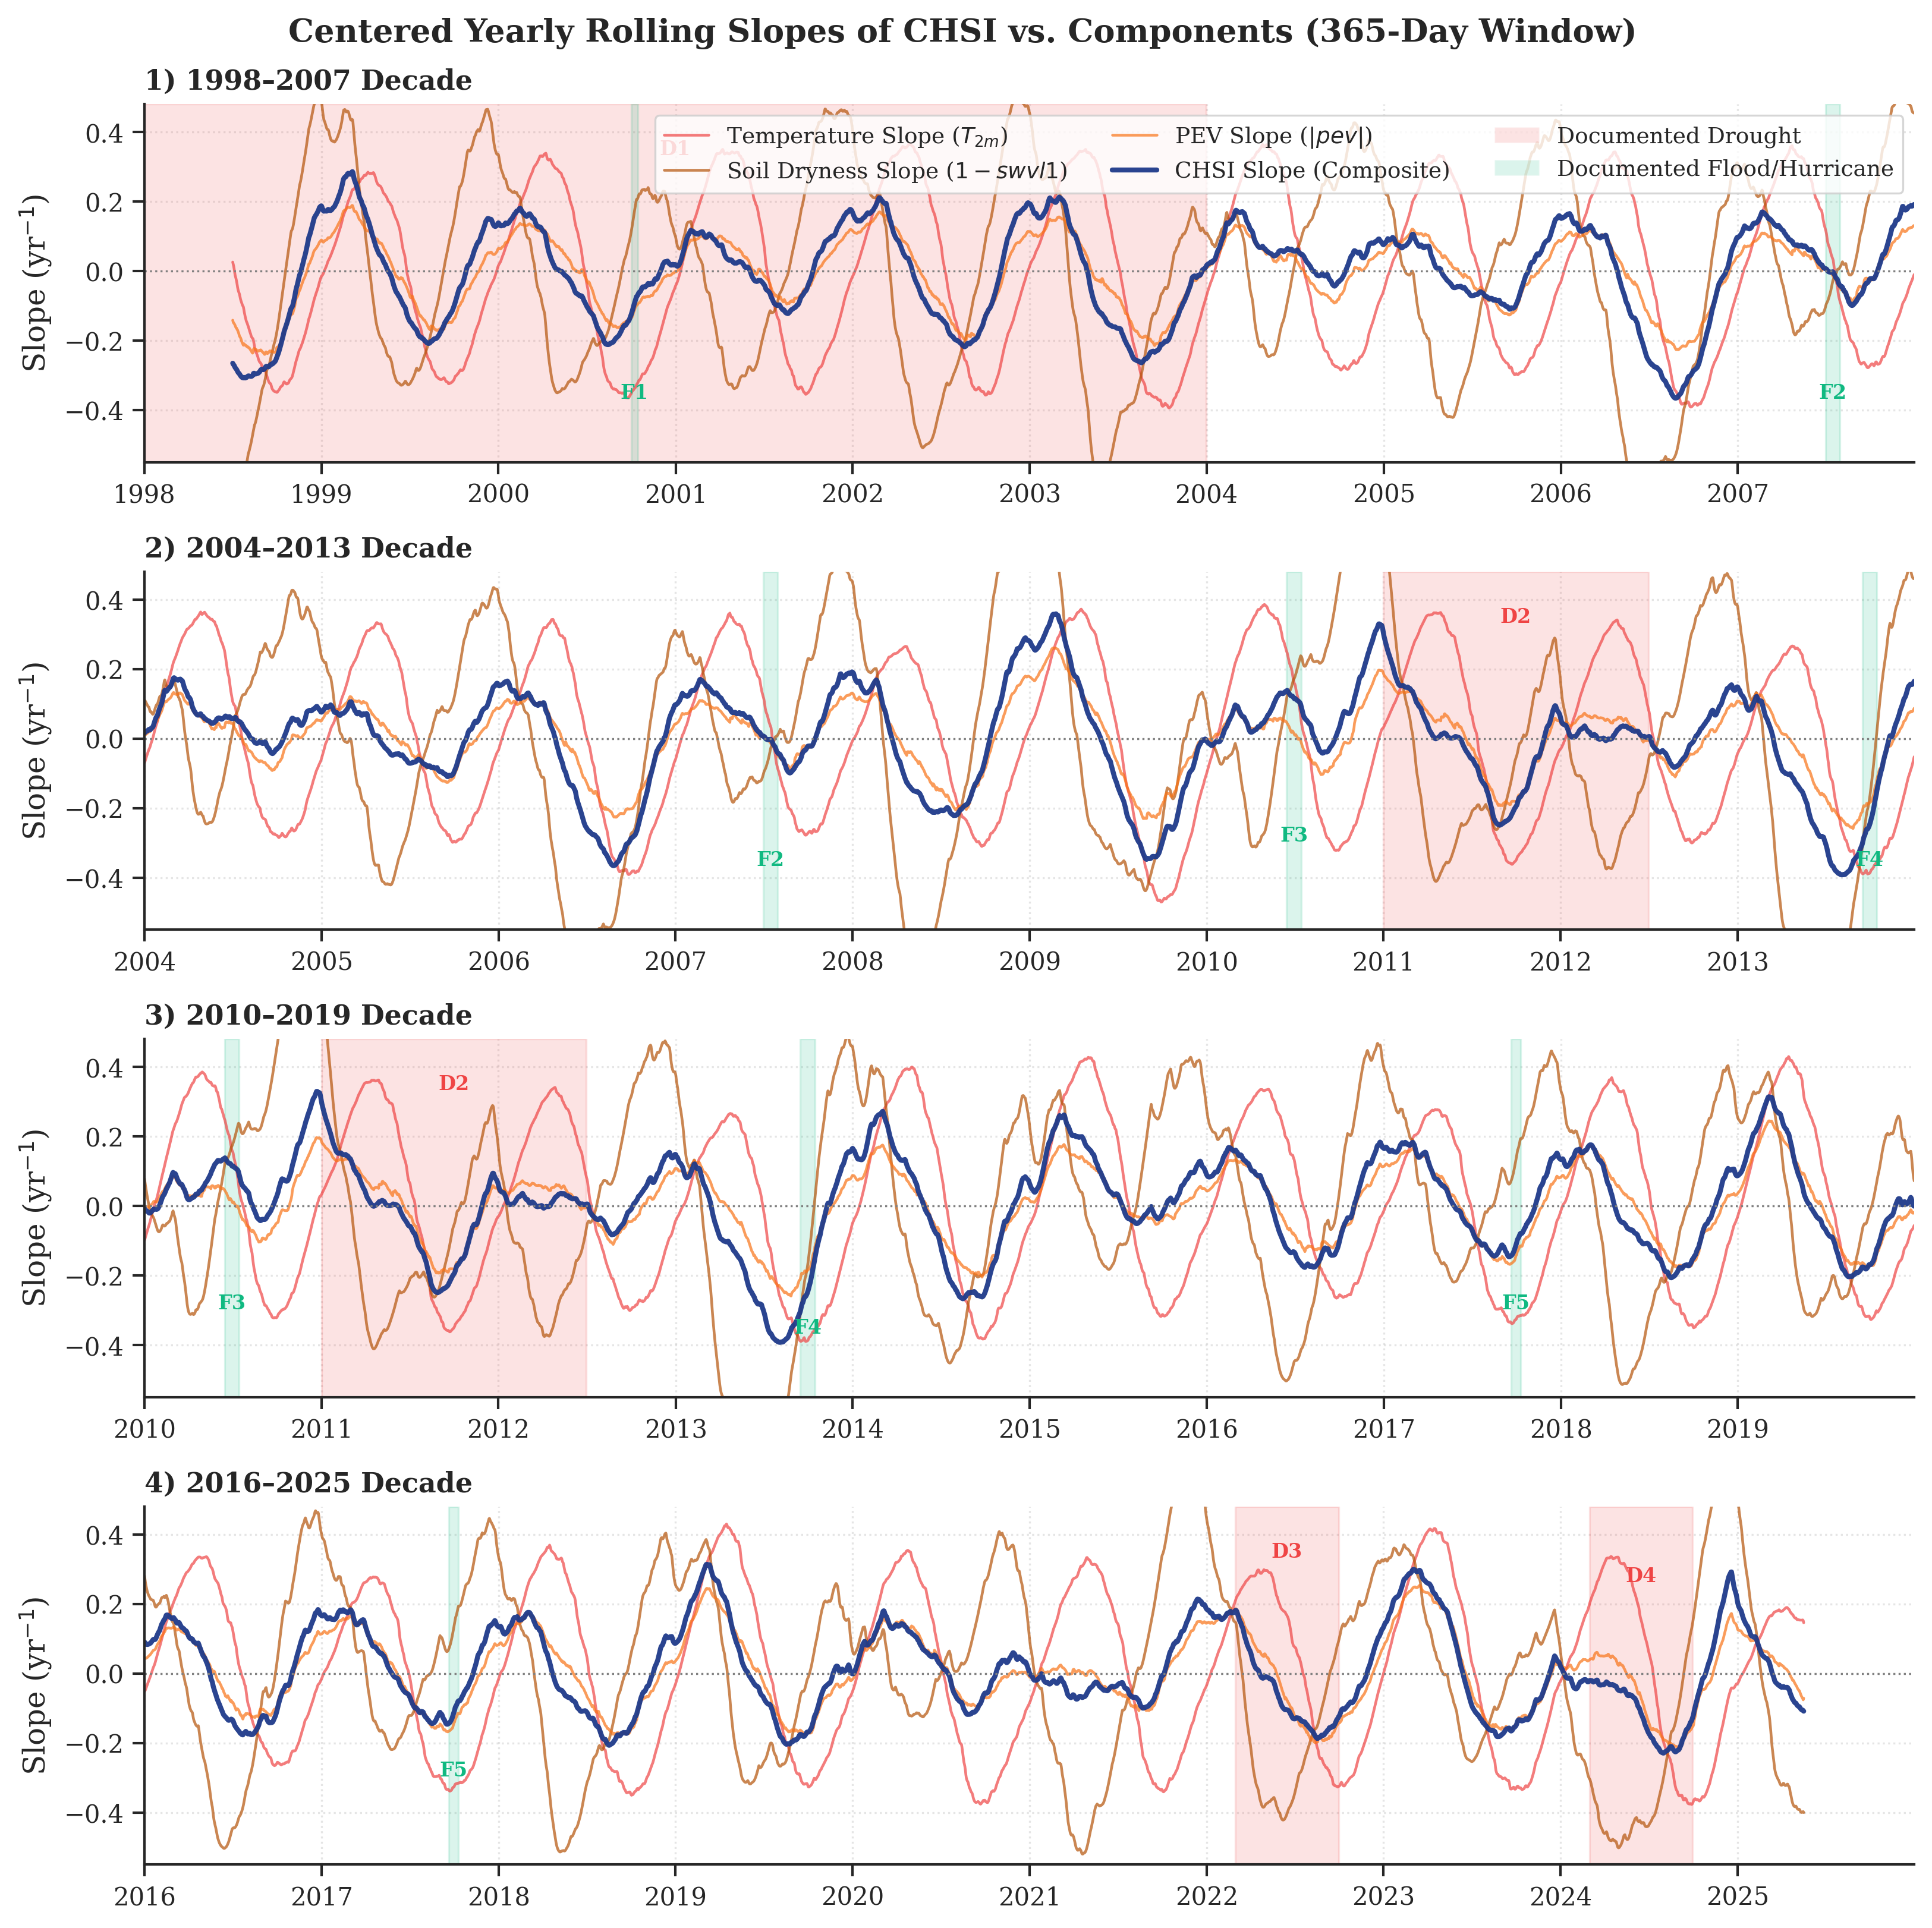
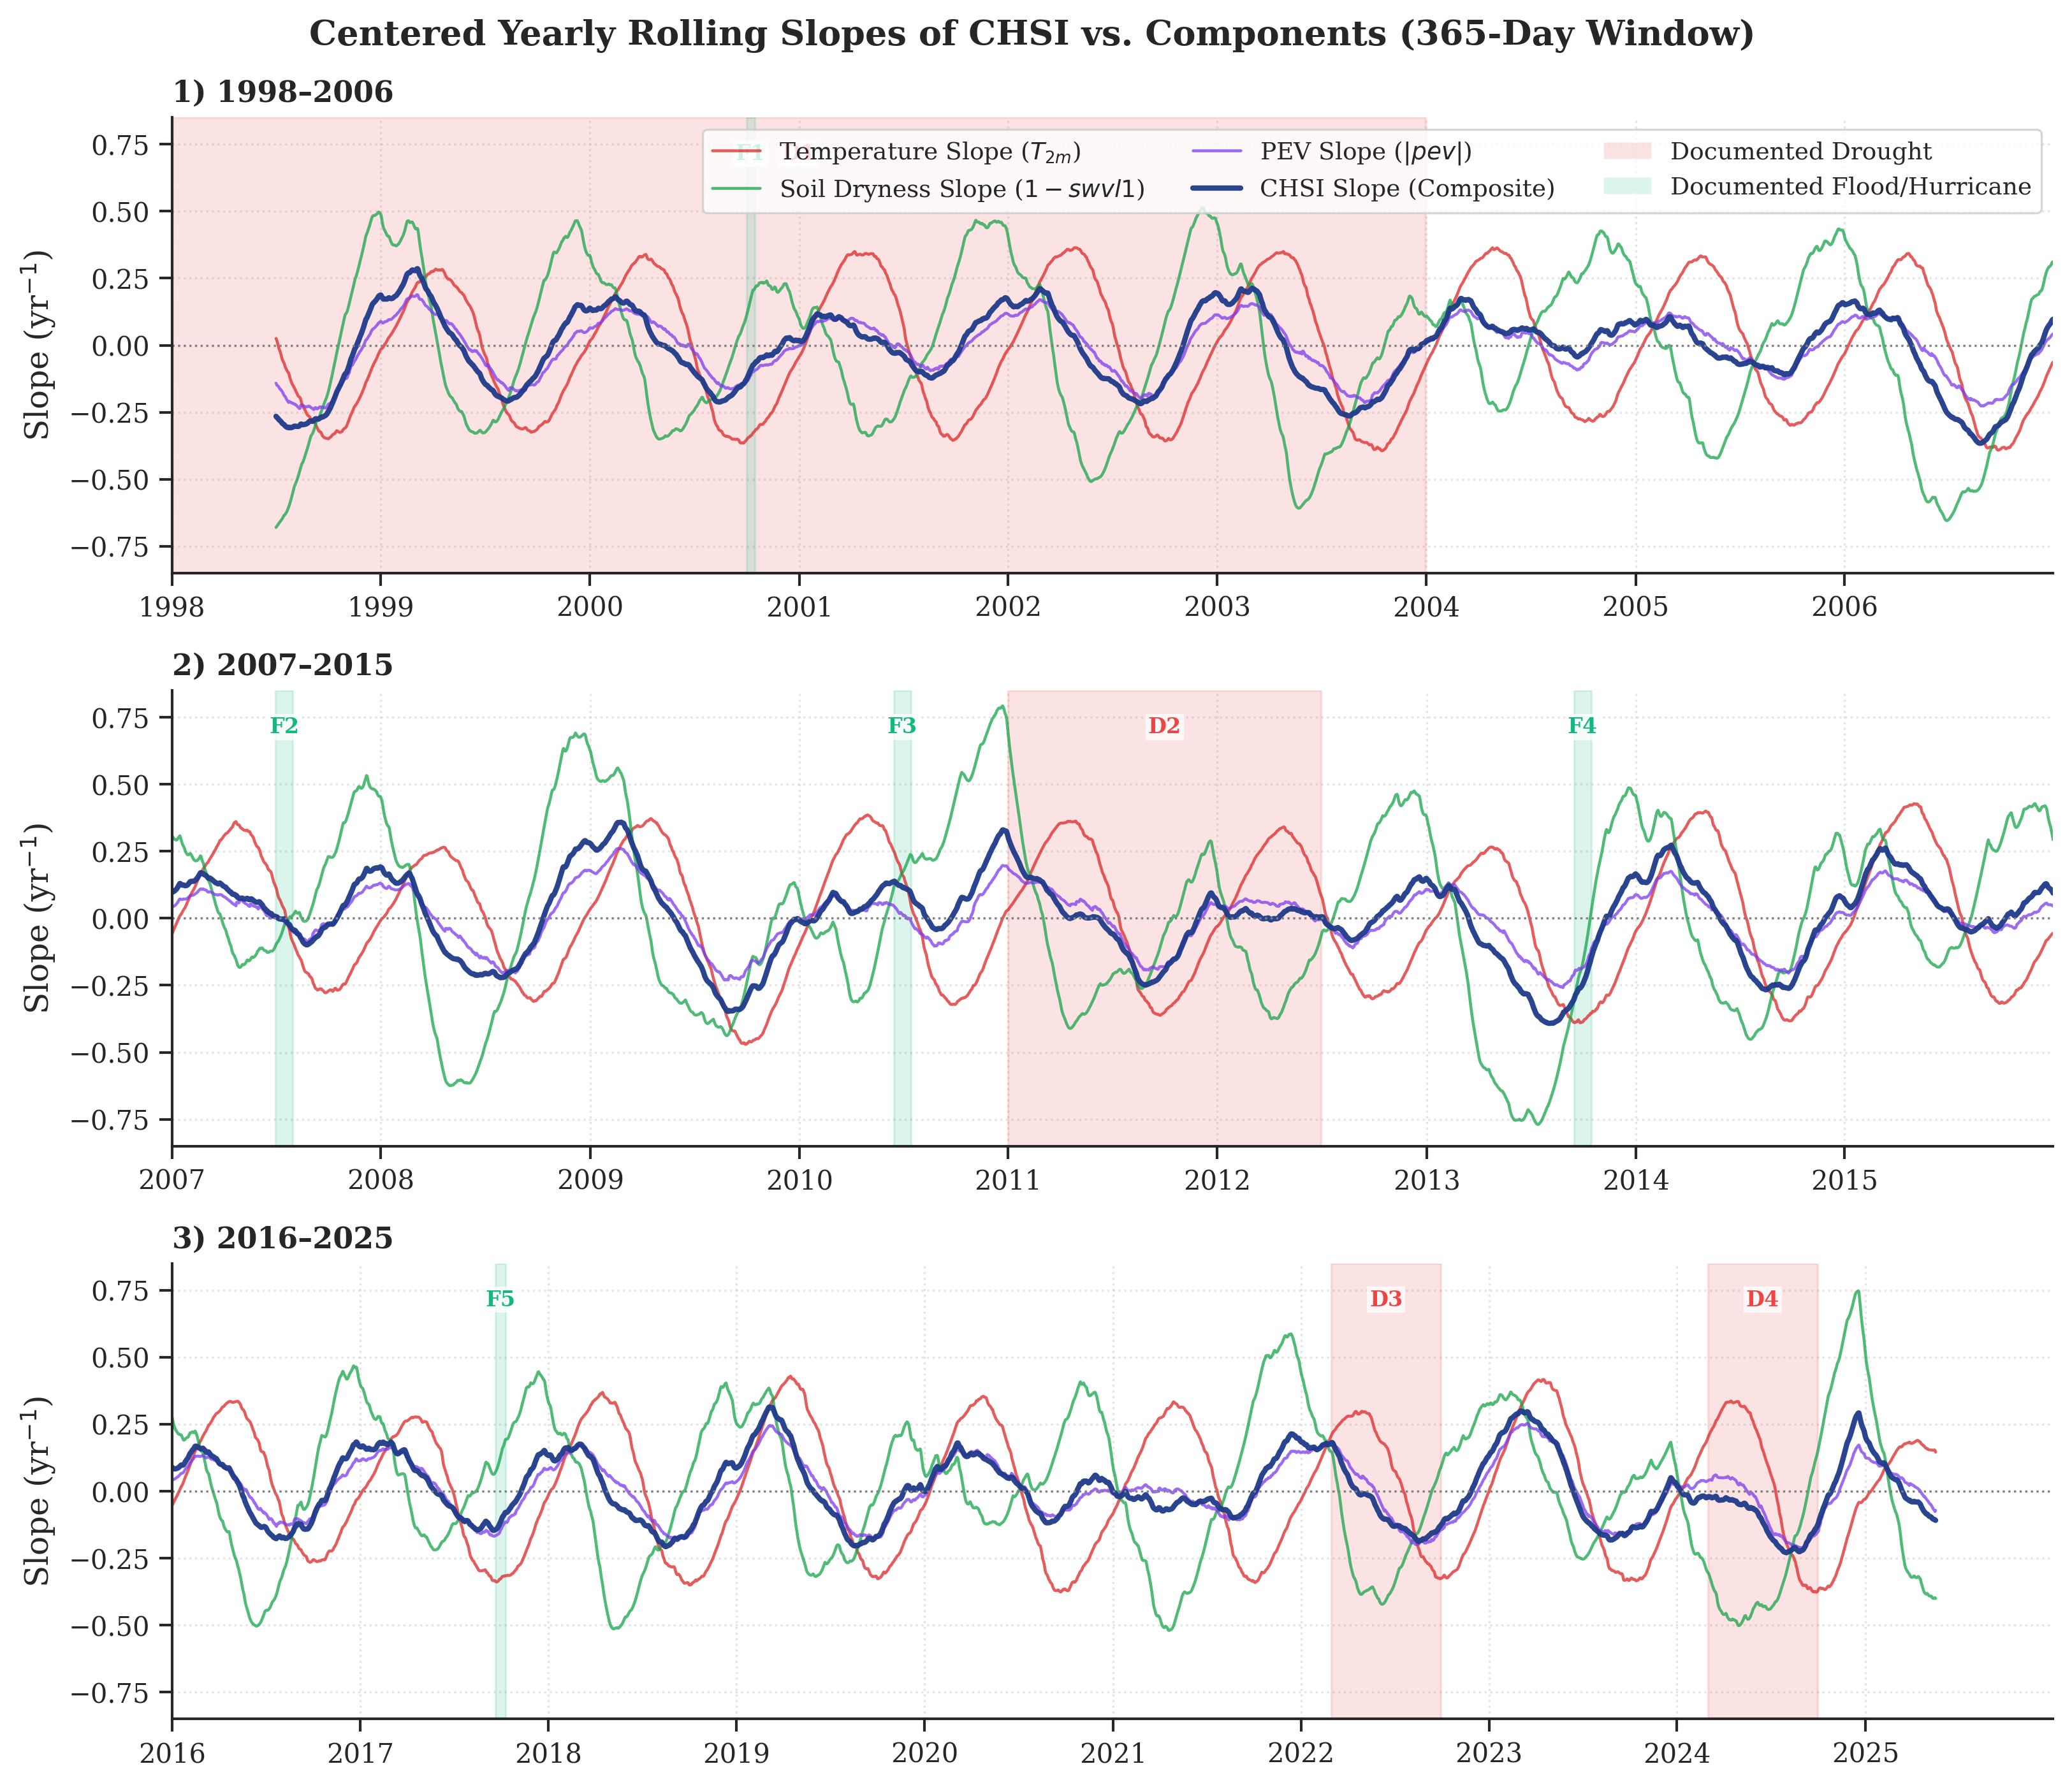
doc: change rolling trend plots to 3 panels, adjust y-limits, high-contrast colors, and adjust labels position

diff --git a/tools/analyze_chsi_rolling_trends.py b/tools/analyze_chsi_rolling_trends.py
@@ -3,7 +3,7 @@
 Multi-scale Centered Rolling Trend Analysis for CHSI and its Normalized Components.
 Calculates centered rolling slopes over seasonal (90-day) and yearly (365-day) windows
 for CHSI, temperature, soil dryness, and potential evaporation.
-Saves two publication-quality figures, each divided into 4 chronological panels:
+Saves two publication-quality figures, each divided into 3 chronological panels:
 1. reports/figures/06_chsi_seasonal_slopes_comparison.png
 2. reports/figures/07_chsi_yearly_slopes_comparison.png
 
@@ -110,15 +110,15 @@ def main():
     
     # Documented extreme events to overlay on figures
     events = [
-        {"name": "D1: 1998-03 Drought", "start": "1998-01-01", "end": "2003-12-31", "color": "#ef4444", "y_sea": 1.5, "y_yr": 0.35},
-        {"name": "F1: Hurricane Keith", "start": "2000-10-01", "end": "2000-10-15", "color": "#10b981", "y_sea": -2.0, "y_yr": -0.35},
-        {"name": "F2: 2007 Flooding", "start": "2007-07-01", "end": "2007-07-31", "color": "#10b981", "y_sea": -2.0, "y_yr": -0.35},
-        {"name": "F3: Hurricane Alex", "start": "2010-06-15", "end": "2010-07-15", "color": "#10b981", "y_sea": -1.4, "y_yr": -0.28},
-        {"name": "D2: 2011-12 Drought", "start": "2011-01-01", "end": "2012-06-30", "color": "#ef4444", "y_sea": 1.5, "y_yr": 0.35},
-        {"name": "F4: Hurricane Ingrid", "start": "2013-09-15", "end": "2013-10-15", "color": "#10b981", "y_sea": -2.0, "y_yr": -0.35},
-        {"name": "F5: 2017 Flooding", "start": "2017-09-20", "end": "2017-10-10", "color": "#10b981", "y_sea": -1.4, "y_yr": -0.28},
-        {"name": "D3: 2022 Drought", "start": "2022-03-01", "end": "2022-09-30", "color": "#ef4444", "y_sea": 1.5, "y_yr": 0.35},
-        {"name": "D4: 2024 Drought", "start": "2024-03-01", "end": "2024-09-30", "color": "#ef4444", "y_sea": 1.1, "y_yr": 0.28},
+        {"name": "D1: 1998-03 Drought", "start": "1998-01-01", "end": "2003-12-31", "color": "#ef4444"},
+        {"name": "F1: Hurricane Keith", "start": "2000-10-01", "end": "2000-10-15", "color": "#10b981"},
+        {"name": "F2: 2007 Flooding", "start": "2007-07-01", "end": "2007-07-31", "color": "#10b981"},
+        {"name": "F3: Hurricane Alex", "start": "2010-06-15", "end": "2010-07-15", "color": "#10b981"},
+        {"name": "D2: 2011-12 Drought", "start": "2011-01-01", "end": "2012-06-30", "color": "#ef4444"},
+        {"name": "F4: Hurricane Ingrid", "start": "2013-09-15", "end": "2013-10-15", "color": "#10b981"},
+        {"name": "F5: 2017 Flooding", "start": "2017-09-20", "end": "2017-10-10", "color": "#10b981"},
+        {"name": "D3: 2022 Drought", "start": "2022-03-01", "end": "2022-09-30", "color": "#ef4444"},
+        {"name": "D4: 2024 Drought", "start": "2024-03-01", "end": "2024-09-30", "color": "#ef4444"},
     ]
     
     event_patches = [
@@ -126,26 +126,26 @@ def main():
         Patch(facecolor="#10b981", alpha=0.15, label="Documented Flood/Hurricane"),
     ]
     
-    # 4 chronological panels (overlapping ~10 years each)
+    # 3 chronological panels exactly matching user ranges
     panels = [
-        {"start": "1998-01-01", "end": "2007-12-31", "title": "1) 1998–2007 Decade"},
-        {"start": "2004-01-01", "end": "2013-12-31", "title": "2) 2004–2013 Decade"},
-        {"start": "2010-01-01", "end": "2019-12-31", "title": "3) 2010–2019 Decade"},
-        {"start": "2016-01-01", "end": "2025-12-31", "title": "4) 2016–2025 Decade"},
+        {"start": "1998-01-01", "end": "2006-12-31", "title": "1) 1998–2006"},
+        {"start": "2007-01-01", "end": "2015-12-31", "title": "2) 2007–2015"},
+        {"start": "2016-01-01", "end": "2025-12-31", "title": "3) 2016–2025"},
     ]
     
+    # Highly distinguishable color scheme (Navy, Crimson Red, Forest Green, Vibrant Purple)
     colors = {
-        "chsi": "#1e3a8a",        # Navy blue (non-black) for CHSI
-        "t2m": "#ef4444",         # Red for Temperature
-        "soil": "#b45309",        # Earthy Brown for Soil Dryness
-        "pev": "#f97316"          # Orange for Potential Evaporation
+        "chsi": "#1e3a8a",        # Navy Blue
+        "t2m": "#dc2626",         # Crimson Red
+        "soil": "#16a34a",        # Forest Green
+        "pev": "#7c3aed"          # Vibrant Purple
     }
     
     # =========================================================================
-    # FIGURE 6: SEASONAL SLOPES (90-day) - 4 stacked panels
+    # FIGURE 6: SEASONAL SLOPES (90-day) - 3 stacked panels
     # =========================================================================
-    print("Generating Figure 6 (Seasonal Slopes, 4 panels)...")
-    fig6, axes6 = plt.subplots(4, 1, figsize=(11, 11), sharex=False)
+    print("Generating Figure 6 (Seasonal Slopes, 3 panels)...")
+    fig6, axes6 = plt.subplots(3, 1, figsize=(11, 9.5), sharex=False)
     
     for idx, panel in enumerate(panels):
         ax = axes6[idx]
@@ -157,14 +157,14 @@ def main():
         df_panel = daily[mask]
         
         # Plot slopes
-        ax.plot(df_panel.index, df_panel["t2m_slope_sea"], color=colors["t2m"], alpha=0.6, linewidth=0.9, label="Temperature Slope ($T_{2m}$)")
-        ax.plot(df_panel.index, df_panel["soil_slope_sea"], color=colors["soil"], alpha=0.6, linewidth=0.9, label="Soil Dryness Slope ($1 - swvl1$)")
-        ax.plot(df_panel.index, df_panel["pev_slope_sea"], color=colors["pev"], alpha=0.6, linewidth=0.9, label="PEV Slope ($|pev|$)")
+        ax.plot(df_panel.index, df_panel["t2m_slope_sea"], color=colors["t2m"], alpha=0.7, linewidth=0.9, label="Temperature Slope ($T_{2m}$)")
+        ax.plot(df_panel.index, df_panel["soil_slope_sea"], color=colors["soil"], alpha=0.7, linewidth=0.9, label="Soil Dryness Slope ($1 - swvl1$)")
+        ax.plot(df_panel.index, df_panel["pev_slope_sea"], color=colors["pev"], alpha=0.7, linewidth=0.9, label="PEV Slope ($|pev|$)")
         ax.plot(df_panel.index, df_panel["chsi_slope_sea"], color=colors["chsi"], alpha=0.95, linewidth=1.8, label="CHSI Slope (Composite)")
         
         ax.axhline(0, color="gray", linestyle=":", linewidth=0.8)
         ax.set_xlim(p_start, p_end)
-        ax.set_ylim(-2.6, 2.1)
+        ax.set_ylim(-5.2, 4.5)  # Covers absolute min (-4.7) and max (4.0) with margin
         ax.set_ylabel("Slope (yr$^{-1}$)")
         ax.set_title(panel["title"], fontweight="bold", fontsize=11, loc="left")
         ax.grid(True, linestyle=":", alpha=0.5)
@@ -185,8 +185,11 @@ def main():
                 visible_end = min(ev_end, p_end)
                 mid_point = visible_start + (visible_end - visible_start) / 2
                 
-                ax.text(mid_point, ev["y_sea"], ev["name"].split(":")[0], color=ev["color"], 
-                         fontsize=8, fontweight="bold", ha="center", va="center")
+                # Put label just below the top boundary of the plot area using axes coordinates
+                ax.text(mid_point, 0.92, ev["name"].split(":")[0], color=ev["color"], 
+                        fontsize=8, fontweight="bold", ha="center", va="center", 
+                        transform=ax.get_xaxis_transform(),
+                        bbox=dict(facecolor='white', edgecolor='none', alpha=0.75, pad=1))
         
         # Add legend only to the first panel to avoid clutter
         if idx == 0:
@@ -201,10 +204,10 @@ def main():
     print("Figure 6 saved successfully.")
     
     # =========================================================================
-    # FIGURE 7: YEARLY SLOPES (365-day) - 4 stacked panels
+    # FIGURE 7: YEARLY SLOPES (365-day) - 3 stacked panels
     # =========================================================================
-    print("Generating Figure 7 (Yearly Slopes, 4 panels)...")
-    fig7, axes7 = plt.subplots(4, 1, figsize=(11, 11), sharex=False)
+    print("Generating Figure 7 (Yearly Slopes, 3 panels)...")
+    fig7, axes7 = plt.subplots(3, 1, figsize=(11, 9.5), sharex=False)
     
     for idx, panel in enumerate(panels):
         ax = axes7[idx]
@@ -216,14 +219,14 @@ def main():
         df_panel = daily[mask]
         
         # Plot slopes
-        ax.plot(df_panel.index, df_panel["t2m_slope_yr"], color=colors["t2m"], alpha=0.7, linewidth=1.1, label="Temperature Slope ($T_{2m}$)")
-        ax.plot(df_panel.index, df_panel["soil_slope_yr"], color=colors["soil"], alpha=0.7, linewidth=1.1, label="Soil Dryness Slope ($1 - swvl1$)")
-        ax.plot(df_panel.index, df_panel["pev_slope_yr"], color=colors["pev"], alpha=0.7, linewidth=1.1, label="PEV Slope ($|pev|$)")
+        ax.plot(df_panel.index, df_panel["t2m_slope_yr"], color=colors["t2m"], alpha=0.75, linewidth=1.1, label="Temperature Slope ($T_{2m}$)")
+        ax.plot(df_panel.index, df_panel["soil_slope_yr"], color=colors["soil"], alpha=0.75, linewidth=1.1, label="Soil Dryness Slope ($1 - swvl1$)")
+        ax.plot(df_panel.index, df_panel["pev_slope_yr"], color=colors["pev"], alpha=0.75, linewidth=1.1, label="PEV Slope ($|pev|$)")
         ax.plot(df_panel.index, df_panel["chsi_slope_yr"], color=colors["chsi"], alpha=0.95, linewidth=2.0, label="CHSI Slope (Composite)")
         
         ax.axhline(0, color="gray", linestyle=":", linewidth=0.8)
         ax.set_xlim(p_start, p_end)
-        ax.set_ylim(-0.55, 0.48)
+        ax.set_ylim(-0.85, 0.85)  # Covers absolute min (-0.77) and max (0.79) with margin
         ax.set_ylabel("Slope (yr$^{-1}$)")
         ax.set_title(panel["title"], fontweight="bold", fontsize=11, loc="left")
         ax.grid(True, linestyle=":", alpha=0.5)
@@ -244,8 +247,11 @@ def main():
                 visible_end = min(ev_end, p_end)
                 mid_point = visible_start + (visible_end - visible_start) / 2
                 
-                ax.text(mid_point, ev["y_yr"], ev["name"].split(":")[0], color=ev["color"], 
-                         fontsize=8, fontweight="bold", ha="center", va="center")
+                # Put label just below the top boundary of the plot area using axes coordinates
+                ax.text(mid_point, 0.92, ev["name"].split(":")[0], color=ev["color"], 
+                        fontsize=8, fontweight="bold", ha="center", va="center", 
+                        transform=ax.get_xaxis_transform(),
+                        bbox=dict(facecolor='white', edgecolor='none', alpha=0.75, pad=1))
         
         # Add legend only to the first panel
         if idx == 0:

diff --git a/article_draft.md b/article_draft.md
@@ -343,7 +343,7 @@ To understand the long-term temporal trajectory and rate of change of the Compos
 1. **Seasonal Window (90-day)**: Captures the short-term, intra-annual rate of change, centered on the middle of the season ($t \pm 45\ \text{days}$) to represent the half-point of the season.
 2. **Yearly Window (365-day)**: Captures the longer-term, annual rate of change, centered on the middle of the year ($t \pm 182.5\ \text{days}$) to filter out seasonal cycles.
 
-To understand the underlying drivers of these trends, we compared the rolling slopes of the composite CHSI directly against the rolling slopes of its individual normalized input features: temperature ($T_{2m}$), soil dryness ($1 - swvl1$), and potential evaporation ($|pev|$). To resolve the high-frequency temporal detail of these records across the 28-year history, the timeline was divided into four overlapping 10-year panels (1998–2007, 2004–2013, 2010–2019, and 2016–2025) for both the seasonal scale (Figure 6) and the yearly scale (Figure 7).
+To understand the underlying drivers of these trends, we compared the rolling slopes of the composite CHSI directly against the rolling slopes of its individual normalized input features: temperature ($T_{2m}$), soil dryness ($1 - swvl1$), and potential evaporation ($|pev|$). To resolve the daily details without visual crowding, the 28-year timeline was divided into three chronological panels (1998–2006, 2007–2015, and 2016–2025) for both the seasonal scale (Figure 6) and the yearly scale (Figure 7).
 
 The global long-term linear trend of the reconstructed CHSI is positive and highly statistically significant:
 $$\text{Slope}_{\text{global}} = [phone redacted]\ \text{year}^{-1} \quad (R^2 = 0.0056, \ p < 0.0001)$$
@@ -351,10 +351,10 @@ This indicates a steady, multi-decadal shift toward higher hydric stress across 
 
 #### Seasonal Slope Analysis
 At the seasonal scale (Figure 6), the slopes show high high-frequency volatility, reflecting rapid transitions in basin hydrology. The seasonal CHSI slope peaks at $[phone redacted]\ \text{year}^{-1}$ during rapid drying phases and drops to $-2.37934\ \text{year}^{-1}$ during extreme precipitation events. 
-- During flood events (e.g., F1–F5), the sharp negative slopes are heavily dominated by rapid increases in soil moisture (extreme negative soil dryness slopes) and cooled land surface temperatures.
+- During flood events (e.g., F1–F5), the sharp negative slopes are heavily dominated by rapid increases in soil moisture (extreme negative soil dryness slopes down to $-4.6958\ \text{year}^{-1}$) and cooled land surface temperatures.
 - During drought onset phases (e.g., D1–D4), the rapid accumulation of hydric stress is driven by a concurrent surge in soil dryness and potential evaporation slopes, illustrating how "flash droughts" can develop within a single season.
 
-![Figure 6: Centered Seasonal Rolling Slopes of CHSI vs. Normalized Components (90-Day Window, 4 Panels)](reports/figures/06_chsi_seasonal_slopes_comparison.png)
+![Figure 6: Centered Seasonal Rolling Slopes of CHSI vs. Normalized Components (90-Day Window, 3 Panels)](reports/figures/06_chsi_seasonal_slopes_comparison.png)
 
 #### Yearly Slope Analysis
 At the yearly scale (Figure 7), seasonal noise is filtered out, revealing the sustained, year-over-year rate of stress accumulation. The peak yearly CHSI slope occurred on **February 24, 2009** at $[phone redacted]\ \text{year}^{-1}$. 
@@ -362,7 +362,7 @@ Analyzing the constituent curves reveals that this peak annual stress transition
 
 This multi-scale component comparison demonstrates that while soil moisture depletion acts as the primary driver of rapid stress acceleration during the initial stages of a drought cycle, sustained warming and high potential evaporation maintain the elevated baseline stress over multi-year periods.
 
-![Figure 7: Centered Yearly Rolling Slopes of CHSI vs. Normalized Components (365-Day Window, 4 Panels)](reports/figures/07_chsi_yearly_slopes_comparison.png)
+![Figure 7: Centered Yearly Rolling Slopes of CHSI vs. Normalized Components (365-Day Window, 3 Panels)](reports/figures/07_chsi_yearly_slopes_comparison.png)
 
 ---
 